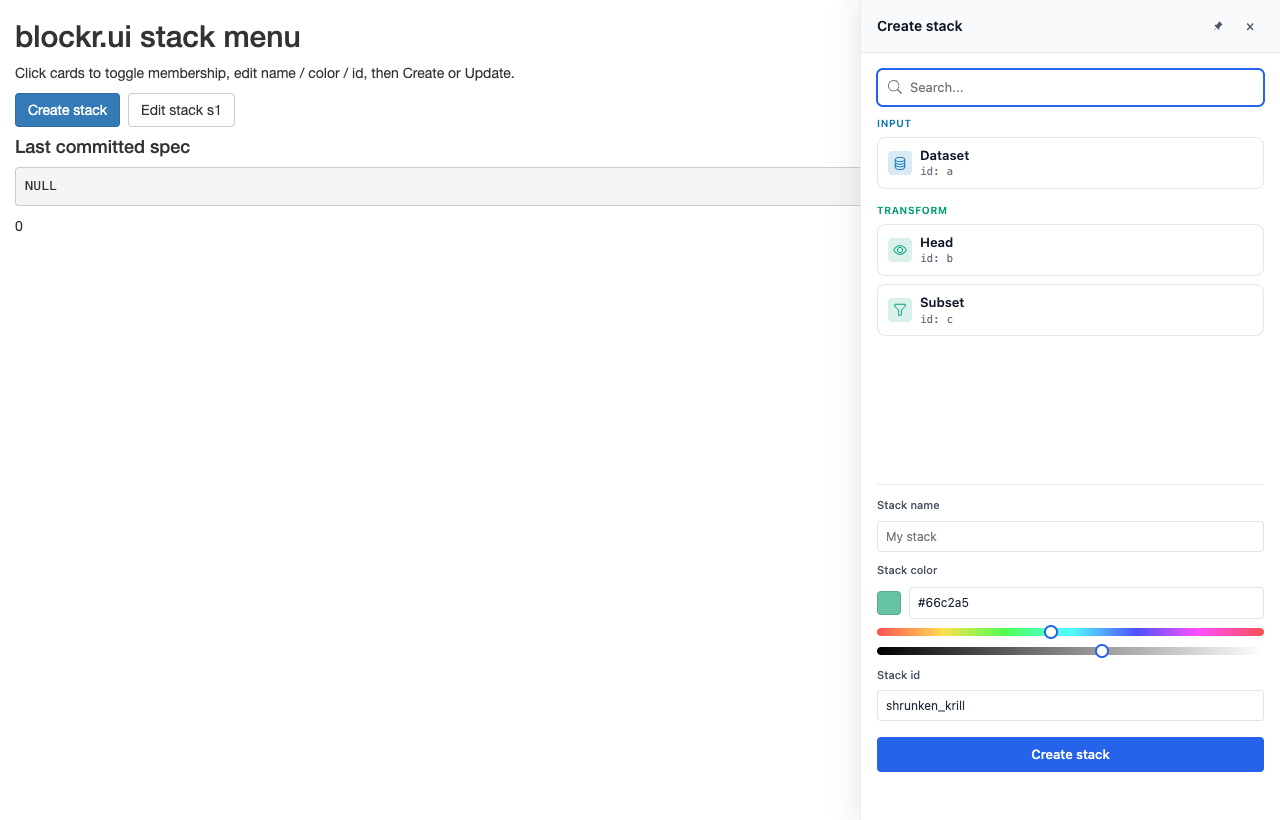
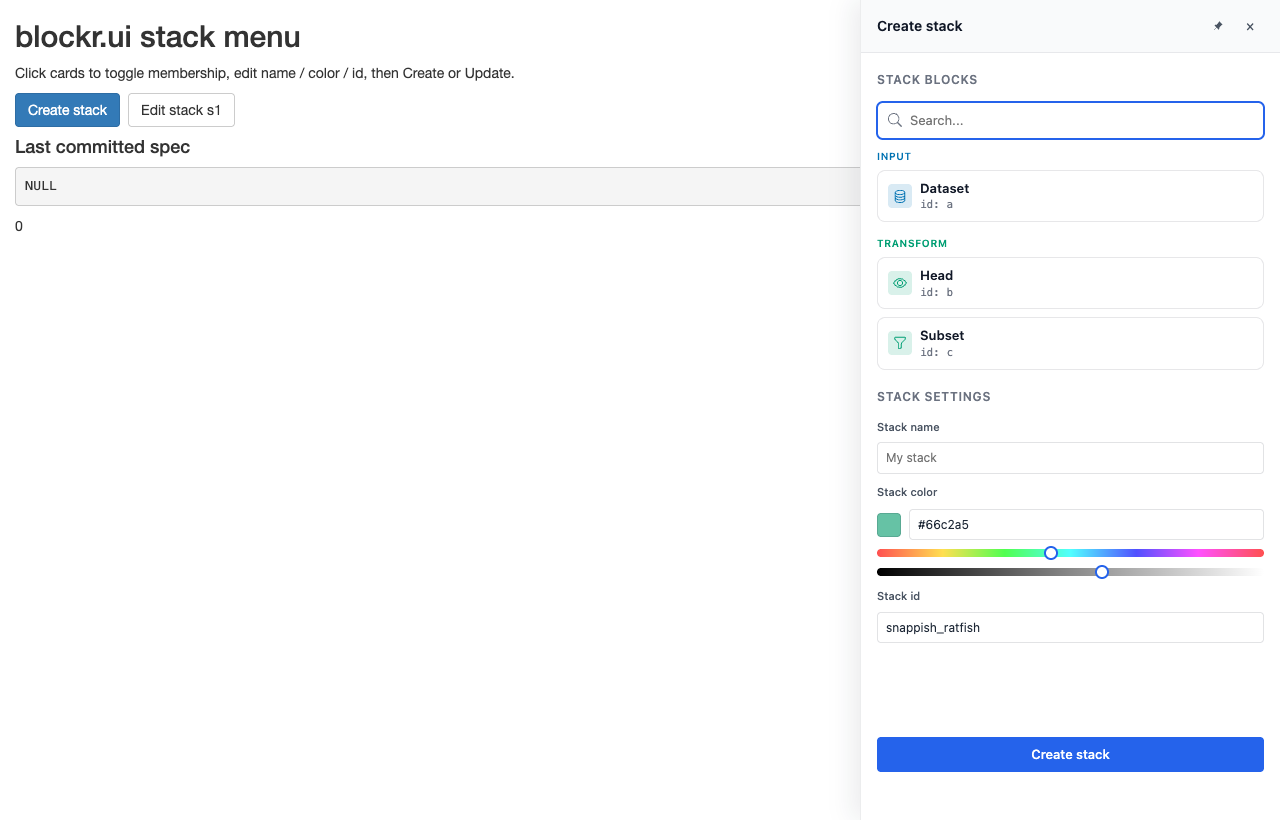
polish: section headers, 4-card cap in edit mode, drop subtitle
* Add parallel uppercase section headers above the picker and the
  form ("STACK BLOCKS" / "STACK SETTINGS") - same visual language as
  the existing INPUT / TRANSFORM category labels inside the card
  list, but a notch larger so they out-rank the sub-dividers.

* Drop the "Editing <stack>" subtitle: the surrounding sidebar
  already owns the title chrome and duplicating "Edit stack s1" /
  "Editing Stack" inside the panel just adds noise. The caller is
  responsible for context labelling.

* In edit mode, cap the cards container to exactly four cards before
  scrolling. Done in JS rather than CSS because card heights vary
  with the consuming app's root font-size (the dock renders cards
  taller than plain Shiny), so a hard CSS value can't be calibrated
  for both at once. Measurement is deferred via rAF so the sidebar
  transition is settled before reading bounding rects.

* Pin the confirm button at the bottom via margin-top: auto; the form
  sits right below the cards section regardless of how full it is.

The block-browser JS was tidied to expose its card-search helpers on
`window.BlockrUI.cardSearch`, and the stack-menu binding now reuses
that namespace - the duplicated applySearch / getCards are gone.

Changed region(s): [[0.6875, 0.5183, 1.0, 0.8841], [0.6875, 0.0915, 1.0, 0.4878]]

diff --git a/inst/assets/css/blockr-stack-menu.css b/inst/assets/css/blockr-stack-menu.css
@@ -18,27 +18,28 @@
   color: #1f2937;
 }
 
-.blockr-stack-menu-context {
-  flex: 0 0 auto;
-  font-size: 12px;
-  color: #6b7280;
-  margin: 0;
-}
-
-.blockr-stack-menu-context strong {
-  color: #1f2937;
-  font-weight: 600;
-}
-
 /* The search bar piggy-backs on the block-browser style. */
 .blockr-stack-menu .blockr-block-browser-search {
   flex: 0 0 auto;
 }
 
-/* Scrollable cards area - matches the block browser. */
+/* Cards area. flex-grow: 0 keeps it tight to its content (no growing
+   into leftover space, which would dilute the picker). flex-shrink: 1
+   + min-height: 0 lets it yield if the total exceeds the panel; the
+   existing overflow-y: auto on .blockr-block-browser-categories then
+   scrolls when content is taller than the allowed height. */
 .blockr-stack-menu .blockr-block-browser-categories {
-  flex: 1 1 auto;
+  flex: 0 1 auto;
   min-height: 0;
+  max-height: max-content;
+}
+
+/* Edit mode: the cards container height is set dynamically by JS to
+   match the 4th card's bottom (see blockr-stack-menu.js / capToFour).
+   We only declare flex-shrink: 0 here so the form below cannot
+   squeeze the explicit height the JS sets. */
+.blockr-stack-menu[data-mode="edit"] .blockr-block-browser-categories {
+  flex: 0 0 auto;
 }
 
 /* Selection state. The card sits in a permanent "selected" look (ring +
@@ -70,15 +71,28 @@
   display: none;
 }
 
-/* Panel-level form: name (always), color + id (under Advanced in create,
-   visible top-level in edit). */
+/* Section headers (above the search bar and above the panel-level
+   form). Same uppercase / tracking treatment as the category labels
+   inside the card list, but a notch bigger and darker so the two
+   top-level sections out-rank the sub-category dividers. */
+.blockr-stack-menu-section-header {
+  flex: 0 0 auto;
+  margin: 4px 0;
+  font-size: 12px;
+  font-weight: 600;
+  letter-spacing: 0.06em;
+  text-transform: uppercase;
+  color: #6b7280;
+}
+
+/* Panel-level form: name + colour + id. The "Stack settings" section
+   header above provides the visual break - no background tint, no
+   border-box; keep the chrome quiet. */
 .blockr-stack-menu-form {
   flex: 0 0 auto;
   display: flex;
   flex-direction: column;
   gap: 10px;
-  padding-top: 12px;
-  border-top: 1px solid rgba(15, 23, 42, 0.08);
 }
 
 .blockr-stack-menu-field {
@@ -233,12 +247,12 @@
   font-weight: 600;
 }
 
-/* Confirm button: pinned at the bottom of the panel. Visually mirrors
-   the block-browser's per-card add button so the family reads as one. */
+/* Confirm button. Pinned at the bottom of the sidebar via margin-top:
+   auto. */
 .blockr-stack-menu-confirm {
   flex: 0 0 auto;
   align-self: stretch;
-  margin-top: 4px;
+  margin-top: auto;
   padding: 8px 14px;
   border: none;
   border-radius: 4px;

diff --git a/inst/assets/js/blockr-stack-menu.js b/inst/assets/js/blockr-stack-menu.js
@@ -165,6 +165,31 @@
     });
   }
 
+  // Edit mode caps the cards container so exactly four cards are
+  // visible; the rest scroll. Done in JS (not CSS) because card
+  // heights vary with the consuming app's font-size (the dock renders
+  // cards taller than plain Shiny), so a hard CSS height can't be
+  // calibrated for both at once. Measurement is deferred via two
+  // animation-frame ticks so the sidebar transition + initial layout
+  // are settled before we read bounding rects.
+  function capCardsToFour(root) {
+    if (root.getAttribute("data-mode") !== "edit") return;
+    var measure = function () {
+      var cats = root.querySelector(".blockr-block-browser-categories");
+      if (!cats) return;
+      var cards = cats.querySelectorAll(".blockr-block-browser-card");
+      if (cards.length <= 4) return;
+      var fourth = cards[3];
+      var catsTop = cats.getBoundingClientRect().top;
+      var fourthBottom = fourth.getBoundingClientRect().bottom;
+      // +4px so the 4th card isn't clipped by sub-pixel rounding.
+      var h = Math.ceil(fourthBottom - catsTop + 4);
+      cats.style.height = h + "px";
+      cats.style.maxHeight = h + "px";
+    };
+    requestAnimationFrame(function () { requestAnimationFrame(measure); });
+  }
+
   function initMenu(root) {
     if (root.dataset.blockrStackMenuInit === "1") return;
     root.dataset.blockrStackMenuInit = "1";
@@ -204,6 +229,7 @@
     }
 
     initColorPicker(root);
+    capCardsToFour(root);
   }
 
   var binding = new Shiny.InputBinding();